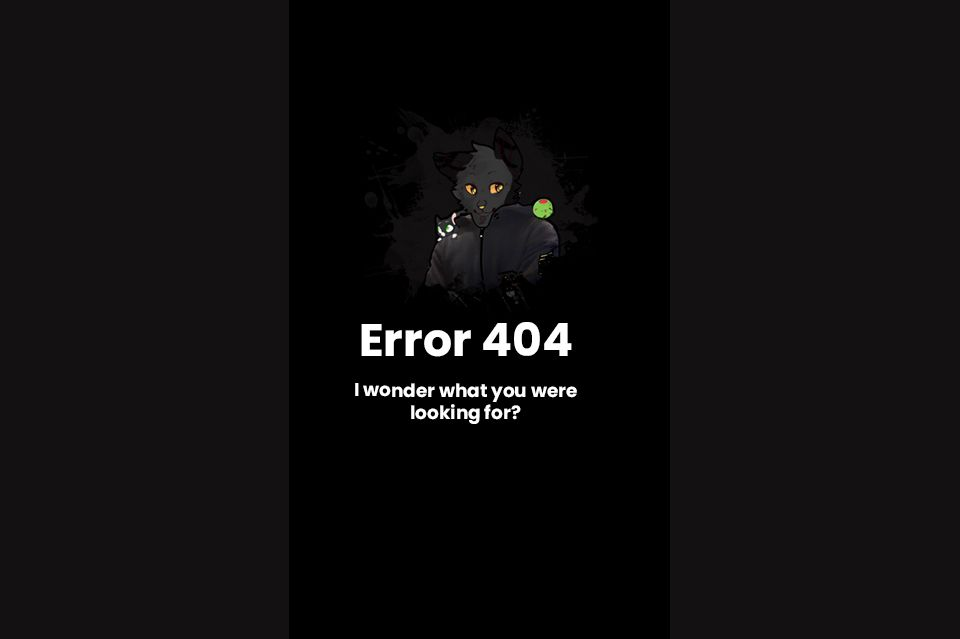
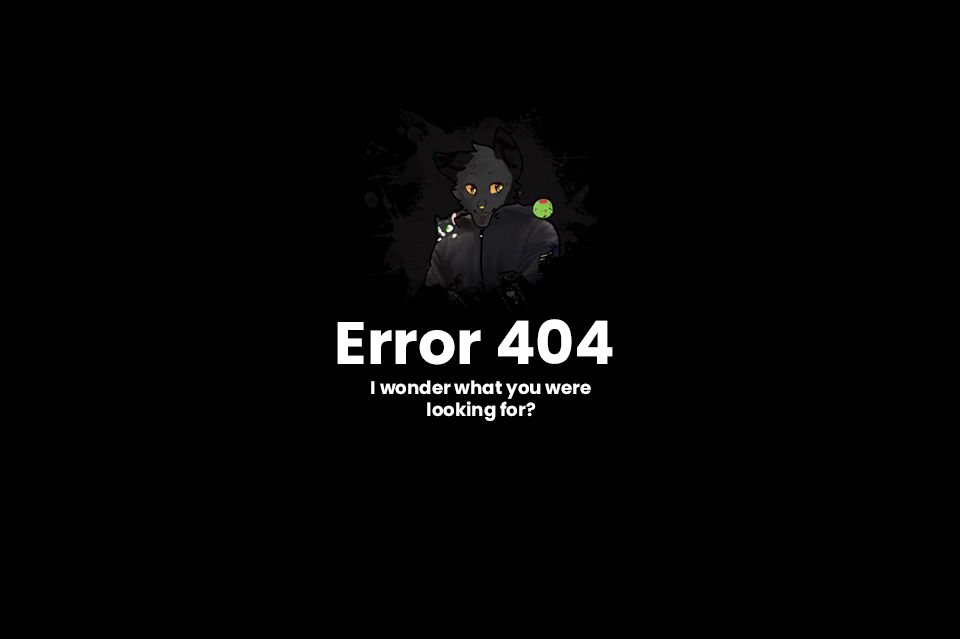
Errorpage background color and image changed

Changed region(s): [[0.3438, 0.4757, 0.6562, 0.6839]]

diff --git a/404.html b/404.html
@@ -13,7 +13,6 @@
 
 </head>
 <body>
-	<div class="backgroundcolorerrorpage">
 	<div class="errorpagephoto">
 	</div>
 	<div class="altababy2">
@@ -22,7 +21,6 @@
 </a></div>
 	<div class="footer agileits altababy">
 		<p>Copyright © 2018 Venator Design</a></p>
-	</div>
 	</div>
 </body>
 </html>

diff --git a/assets/errorpagecss/style.css b/assets/errorpagecss/style.css
@@ -4,7 +4,7 @@ body {
 	margin: 0;
 	height: 100vh !important;
 	overflow: hidden;
-	background: #131112;
+	background: #000000;
 	font-family: 'Source Sans Pro', sans-serif;
 }
 body a {
